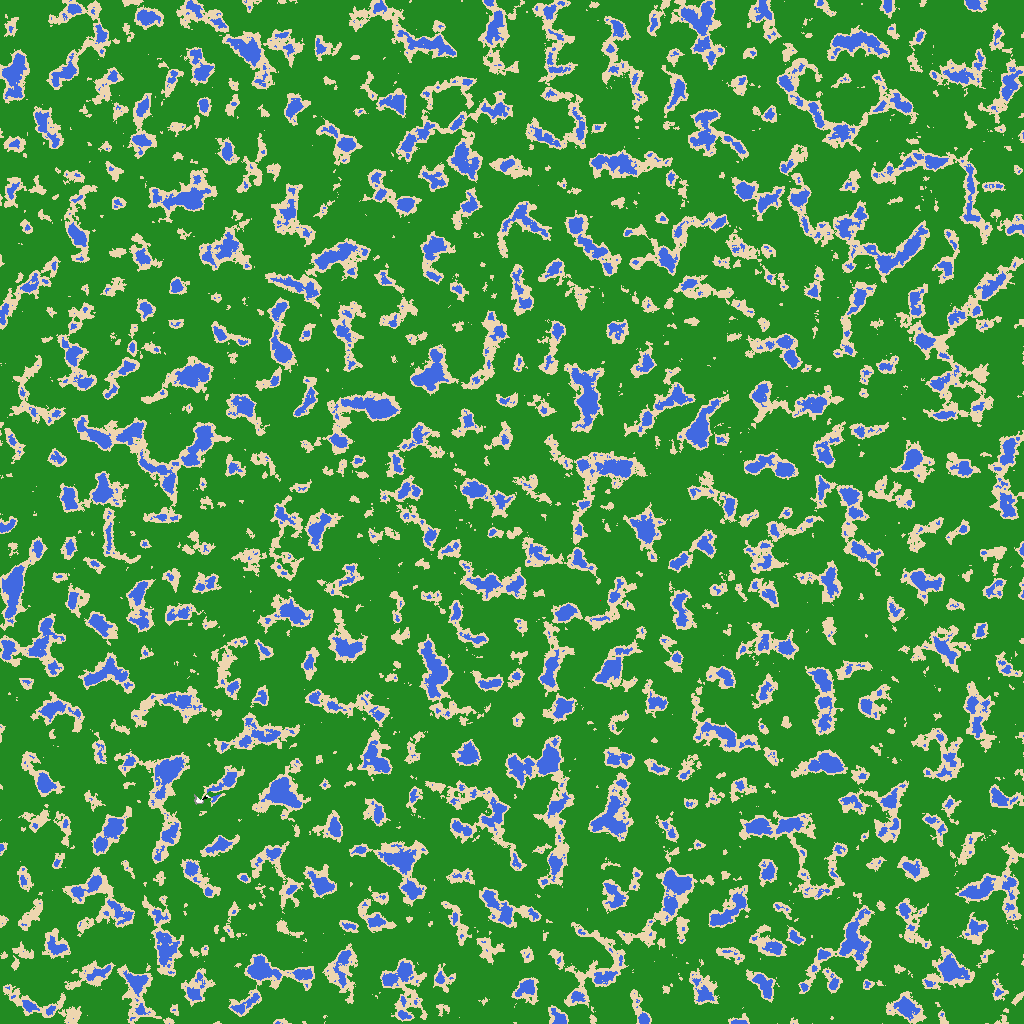
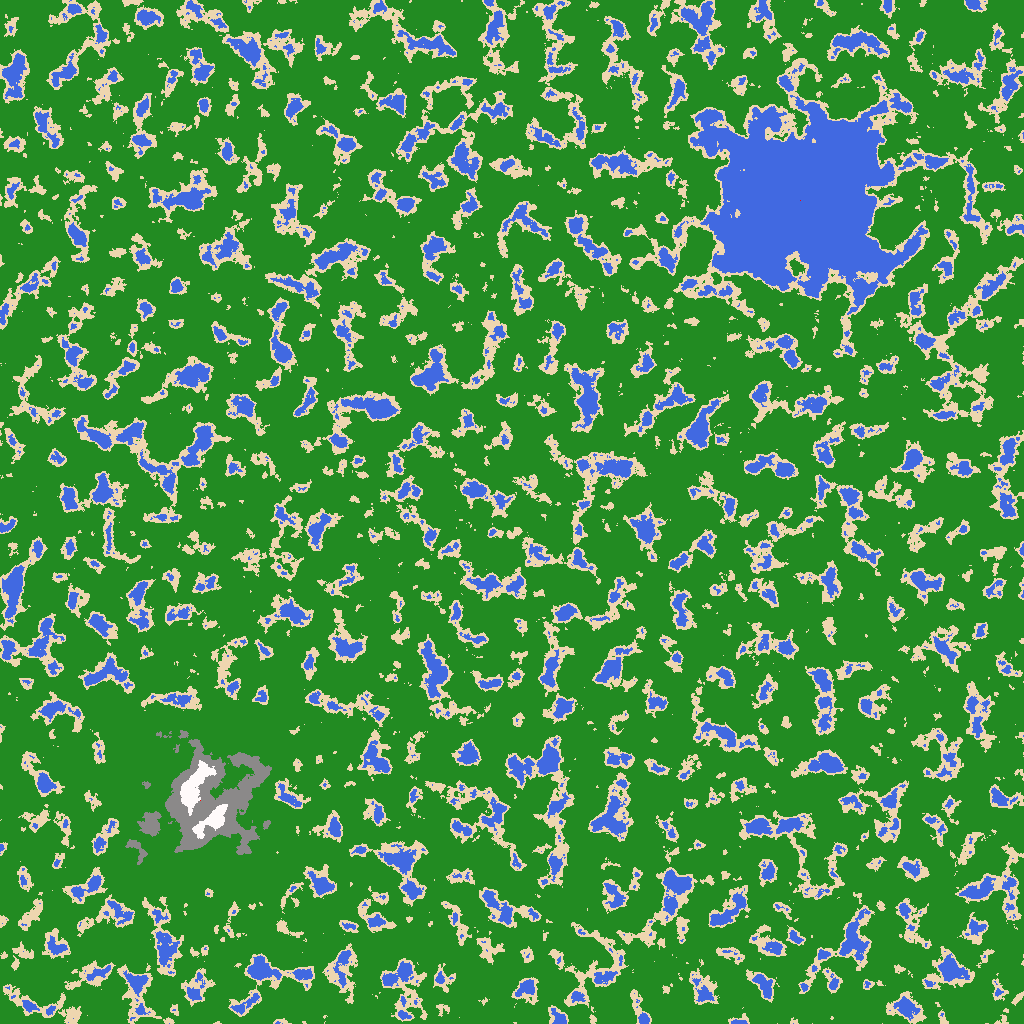
heightmap + mountains/lakes

Changed region(s): [[0.6875, 0.0938, 0.875, 0.3125], [0.0938, 0.6875, 0.3125, 0.875]]

diff --git a/apply_filters.py b/apply_filters.py
@@ -21,10 +21,8 @@ print(rand_img)
 #< -0.05 = blue, -0.5 - 0 = beach, 0 - 0.20 = green, 0.20 - 0.35 mountain, 0.35 - 1.0 snow 
 
 #the following functions apply a filter to a noise map
-def make_mountain(img_array, x, y):
+def apply_stationary(img_array, x, y, delta, difference):
     #apply filters to make sure a mountain pops up where the user wants
-    delta = 1
-    difference = .1 #this defines how big the mountain will be and can be changed later. Smaller # = bigger mountain
 
     #first change the exact point
     img_array[x][y] = img_array[x][y] + delta
@@ -43,33 +41,90 @@ def make_mountain(img_array, x, y):
         current_x = lt_corner_x
         current_y = lt_corner_y
 
-        img_array[current_x][current_y] += delta
+        # img_array[current_x][current_y] += delta
 
         #top
-        for i in range(length):
+        for i in range(1, length):
             current_x += 1
             img_array[current_x][current_y] += delta
             
         
         #right 
-        for i in range(length):
+        for i in range(1, length):
             current_y += 1
             img_array[current_x][current_y] += delta
             
         #bottom
-        for i in range(length):
+        for i in range(1, length):
             current_x -= 1
             img_array[current_x][current_y] += delta
 
         #left
-        for i in range(length):
-            current_y += 1
+        for i in range(1, length):
+            current_y -= 1
             img_array[current_x][current_y] += delta
 
-        
+
         delta -= difference
 
         lt_x -= 1
         rt_x += 1
         y -= 1
 
+def make_mountain(img_aray, x, y, size):
+    print("made mountain")
+    apply_stationary(img_aray, x, y, 1.00, size)
+
+def make_lake(img_array, x, y, size):
+    #apply filters to make sure a lake pops up where the user wants
+
+    delta = -1.00
+    difference = 0.01
+
+    #first change the exact point
+    img_array[x][y] = img_array[x][y] + delta
+
+    lt_x = x - 1 #chooses a corner in the top left
+    rt_x = x + 1 #chooses a corner in the top right
+
+    #from then on change the height in increasing radius away from the point
+    while delta < 0.0:
+
+        length = rt_x - lt_x #this is the length of the square ringing the previous one
+
+        top_left = lt_corner_x, lt_corner_y = lt_x, y -1
+        top_right = rt_corner_x, rt_corner_y = rt_x, y - 1
+
+        current_x = lt_corner_x
+        current_y = lt_corner_y
+
+        # img_array[current_x][current_y] += delta
+
+        #top
+        for i in range(1, length):
+            current_x += 1
+            img_array[current_x][current_y] += delta
+            
+        
+        #right 
+        for i in range(1, length):
+            current_y += 1
+            img_array[current_x][current_y] += delta
+            
+        #bottom
+        for i in range(1, length):
+            current_x -= 1
+            img_array[current_x][current_y] += delta
+
+        #left
+        for i in range(1, length):
+            current_y -= 1
+            img_array[current_x][current_y] += delta
+        
+        print("stationary")
+
+        delta += difference
+
+        lt_x -= 1
+        rt_x += 1
+        y -= 1

diff --git a/noise-gen.py b/noise-gen.py
@@ -4,7 +4,7 @@ import numpy as np
 from scipy.misc import toimage, imsave
 from matplotlib import pyplot as plt
 from PIL import Image
-from apply_filters import make_mountain
+from apply_filters import make_mountain, make_lake
 
 
 blue = [65,105,225]
@@ -48,9 +48,10 @@ def add_color(world, shape):
                 color_world[i][j] = beach
             elif world[i][j] < .60:
                 color_world[i][j] = green
-            elif world[i][j] < 0.75:
+            elif world[i][j] < 0.95:
                 color_world[i][j] = mountain
-            elif world[i][j] < 1.0:
+            else:
+                #anything higher than that would be a distant peak
                 color_world[i][j] = snow
 
     return color_world
@@ -59,13 +60,17 @@ world, shape = make_heightmap()
 
 print(world[800][200])
 
-make_mountain(world, 800, 200)
+make_mountain(world, 800, 200, 0.01)
 
 print(world[800][200])
+
+make_lake(world, 200, 800, 0.01 )
         
 color_world = add_color(world, shape)
 
-color_world[600][600] = [255, 0, 0]
+color_world[800][200] = [255, 0, 0] #mark mountain test
+
+color_world[200][800] = [255, 0, 0] #mark lake text
 
 # print(color_world)
 

diff --git a/TODO.md b/TODO.md
@@ -12,6 +12,8 @@ As of 7/6/2020
         - to represent height, maybe a gradient fill. Topographical map with contours. Simpler would be to approximate contours using ellipses
         - heightlines based off a point
         ^this is all more geared towards pixels
+    - add beaches to lakes
+    - generate roads and rivers
 
 
 ### Optional ###
